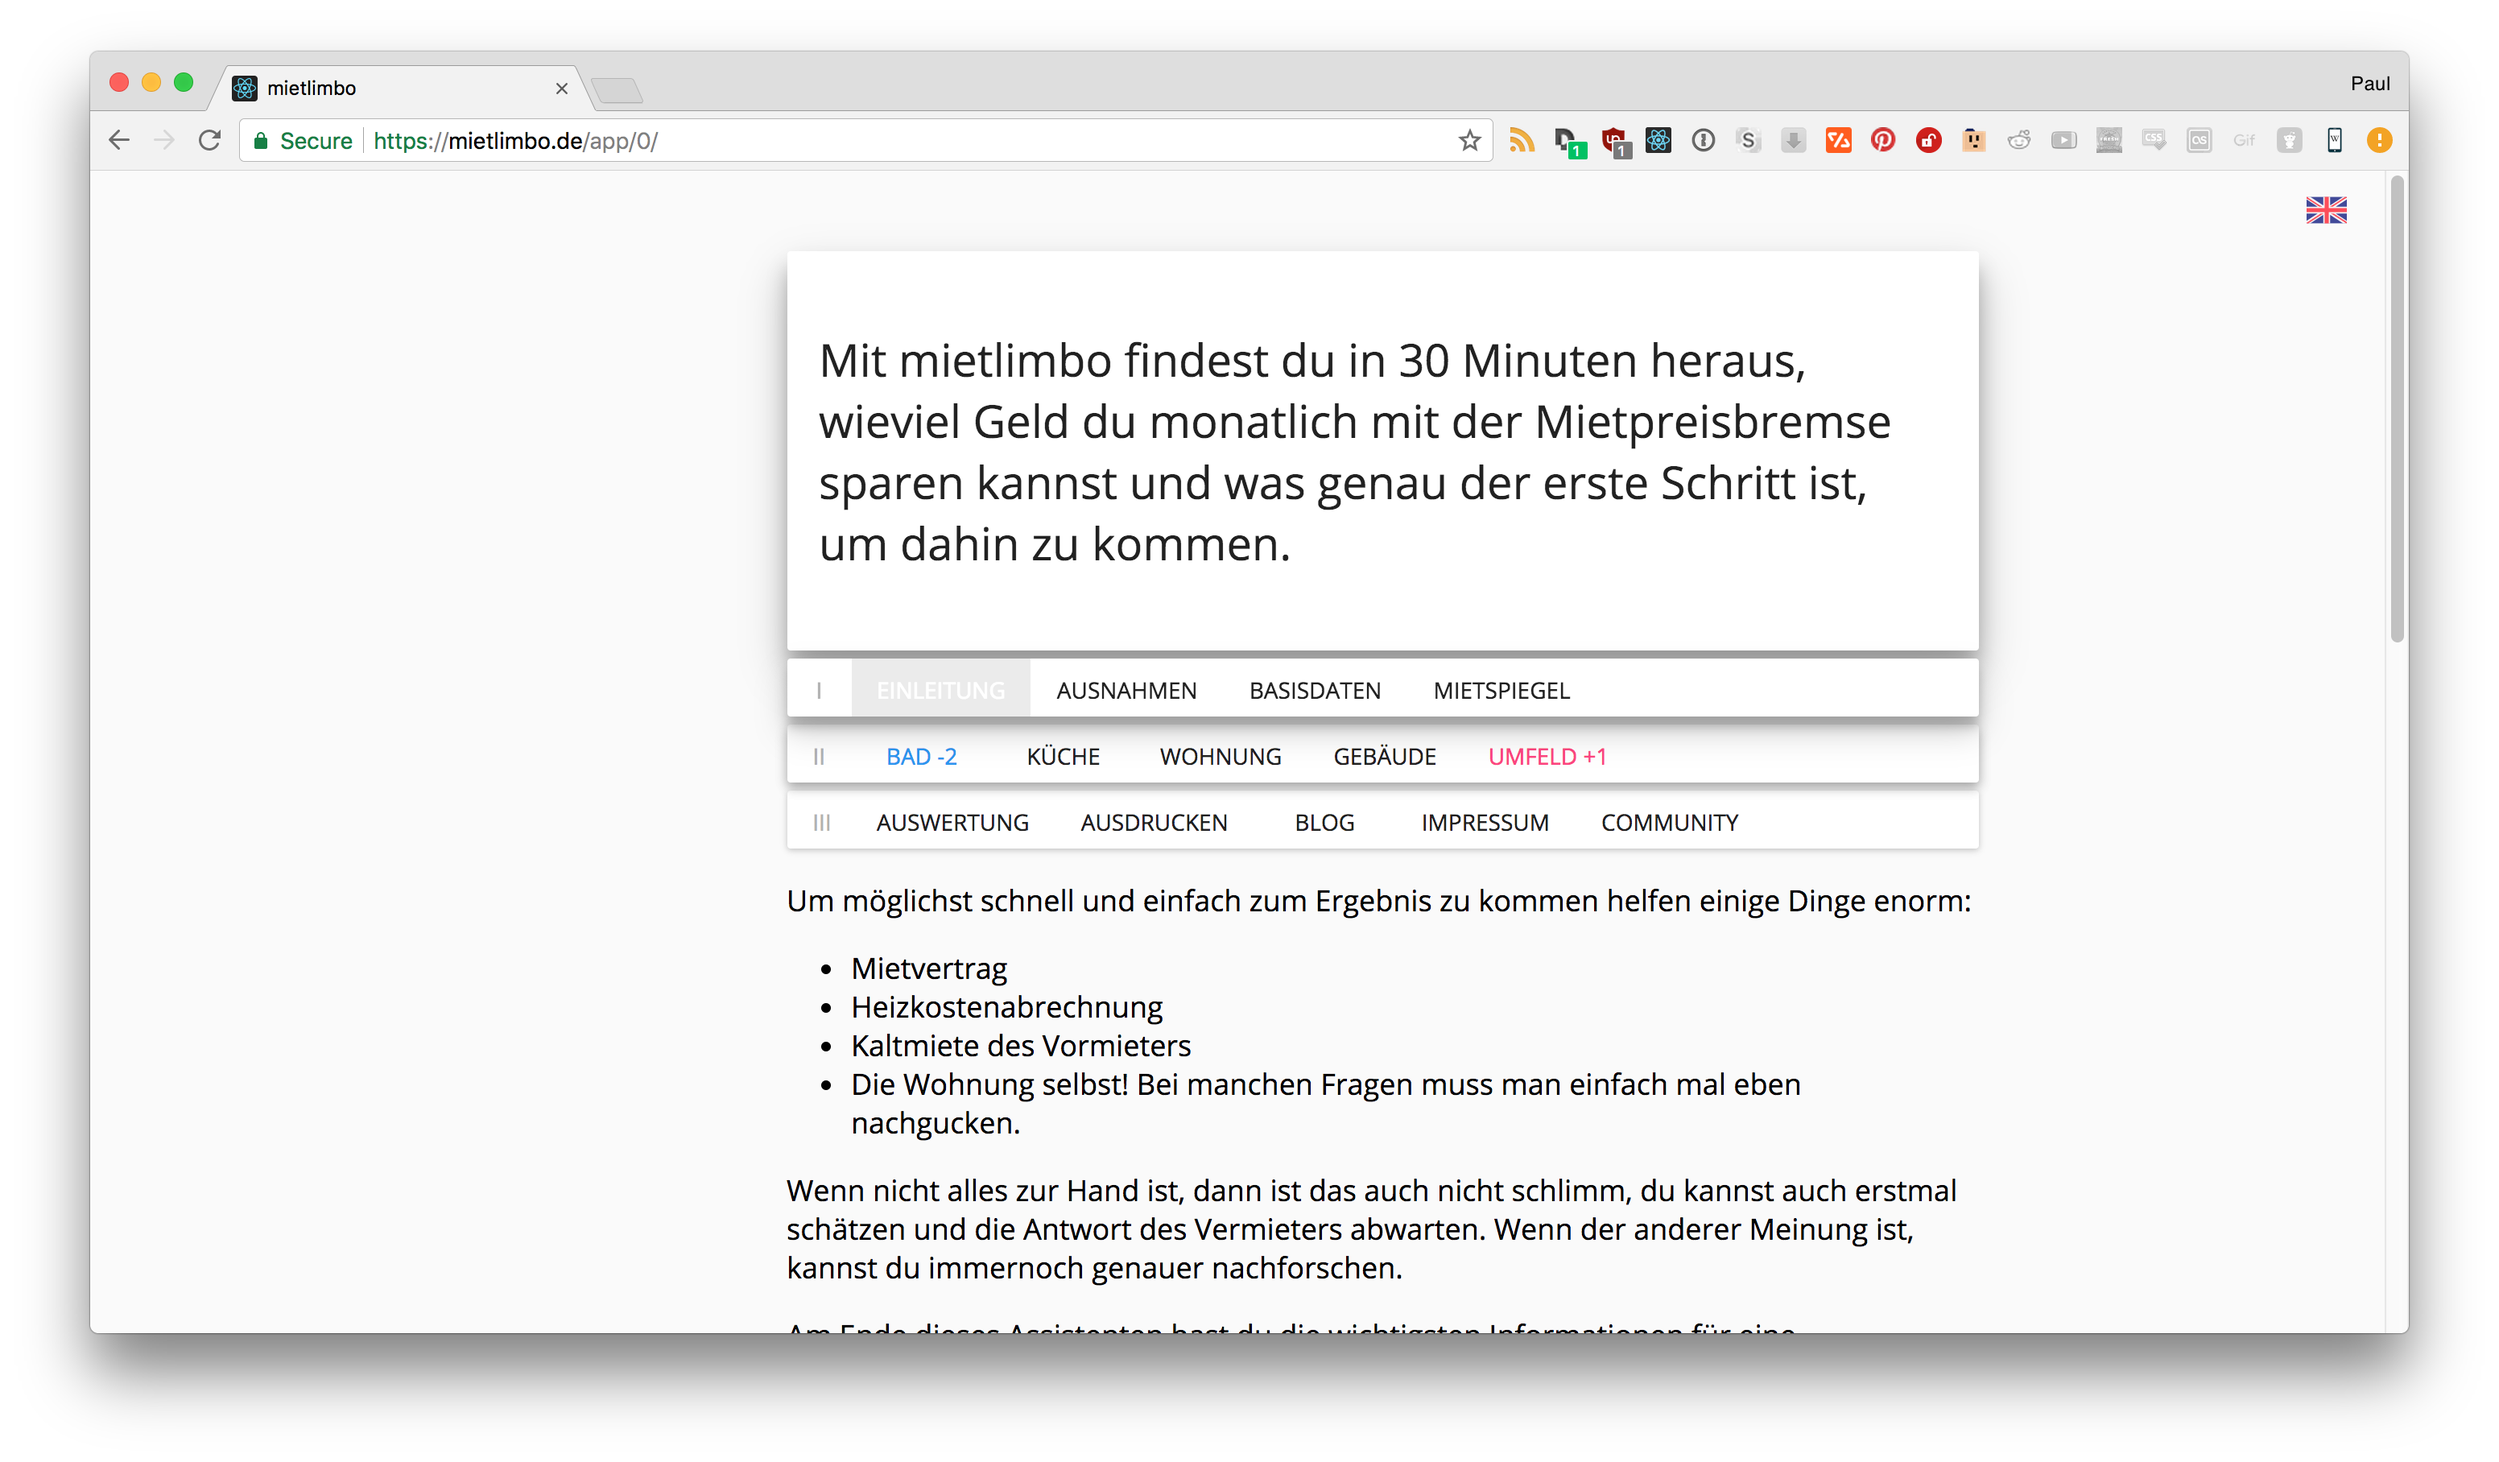
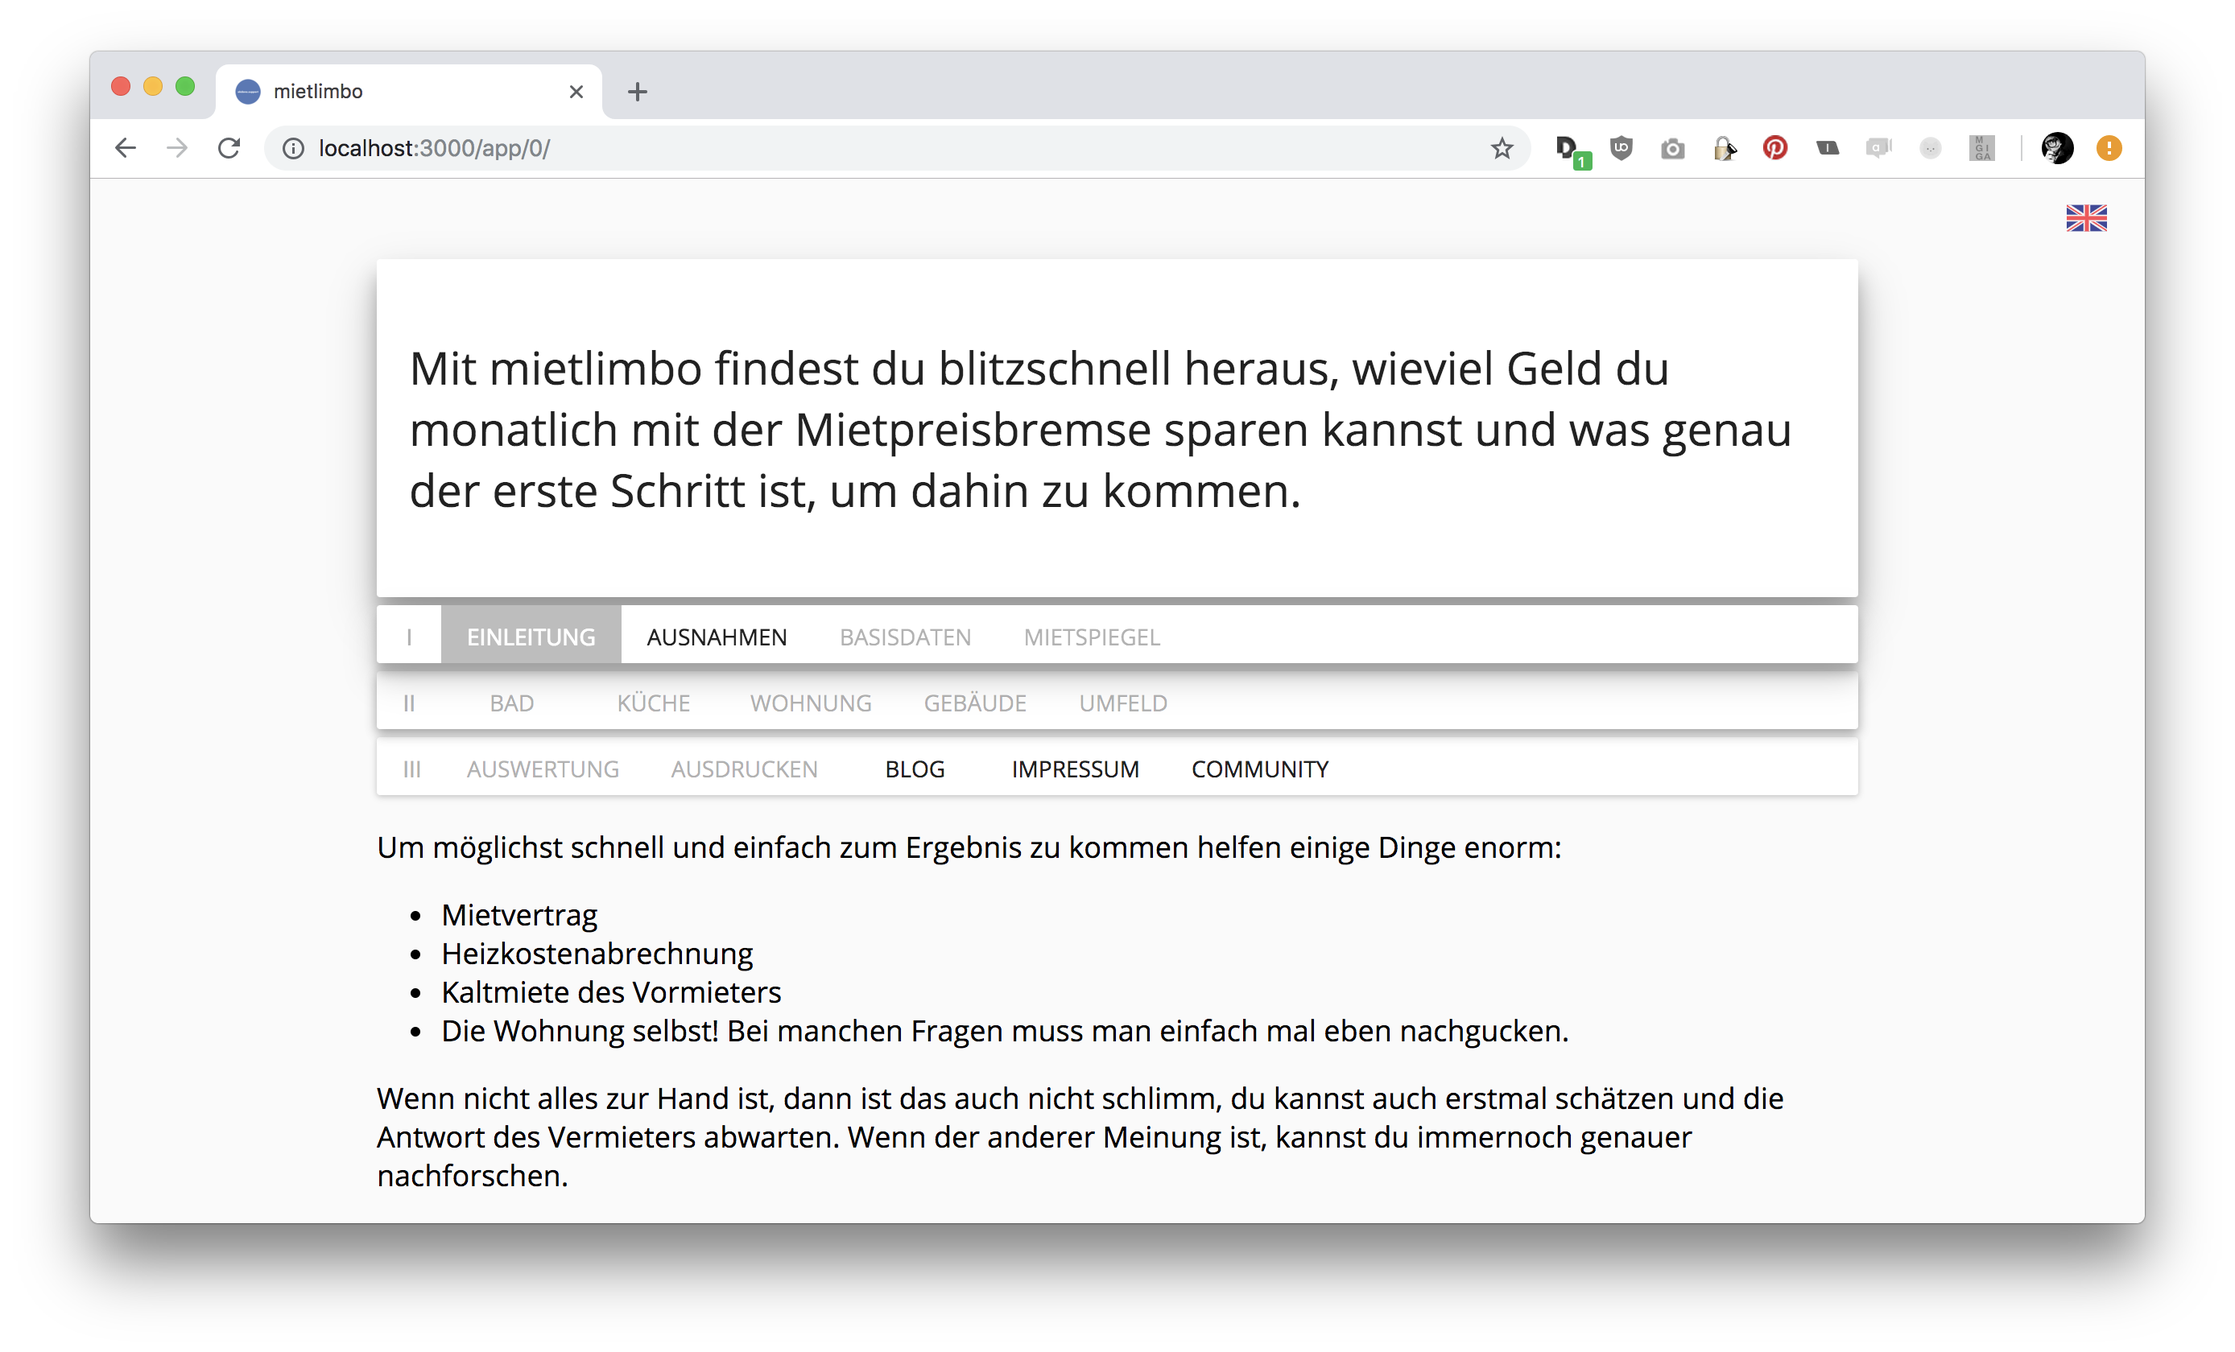
Update preview page

Changed region(s): [[0.1549, 0.1857, 0.8365, 0.7738], [0.031, 0.031, 0.9914, 0.9286], [0.9604, 0.4333, 0.9914, 0.8976]]

diff --git a/client/src/Pages/Preview.js b/client/src/Pages/Preview.js
@@ -45,8 +45,18 @@ const Preview = () => <div style={style.container}>
   bestimmte Wohnung den kritischen Wert <em>ortsübliche Vergleichsmiete + 10 Prozent</em> berechnet, 
   auf den die Miete gesenkt werden kann.</p>
 
-  <p>Obwohl die Software bereits fertig entwickelt ist, kann ich mietlimbo im Moment noch nicht veröffentlichen, da das Rechtsdienstleistungsgesetz
-  dies nur zulässt, wenn ich vorher alle Inhalte von einem Anwalt habe prüfen lassen. Daher suche
+  <p>Kommt es, wie so üblich, zu einer Verhandlung mit dem Vermieter über die 
+  Merkmale, welche auf die Wohnung zutreffen, so erlaubt mietlimbo das schnelle
+  durchprobieren verschiedener Konfigurationen. Dadurch kann geprüft werden,
+  ob es sich z.B. lohnt, darum zu kämpfen, dass das Parkett als hochwertig
+  klassifiziert wird - oder ob es letzendlich keinen Unterschied auf die Einordnung
+  der Wohnung im Mietspiegel hat.</p>
+
+  <p>Alle persönlichen Daten werden dabei lokal im Browser gespeichert und 
+  lassen sich einfach mit einem Klick auf der Startseite wieder löschen.</p>
+
+  <p><strong>Obwohl die Software bereits fertig entwickelt ist, kann ich mietlimbo im Moment noch nicht veröffentlichen</strong>, da das Rechtsdienstleistungsgesetz
+  dies nur zulässt, wenn ich vorher alle Inhalte mit einem Anwalt zusammen prüfe. Daher suche
   ich im Moment nach einem Kooperationspartner, der mir hiermit hilft. Hast du eine Idee, wer das sein könnte? 
   Dann schreibe mir gerne an <a href="mailto:hallo@mietlimbo.de" style={style.link}>hallo@mietlimbo.de</a> oder <a href="https://twitter.com/ciex" style={style.link}>@ciex</a></p>
 

diff --git a/client/src/Assistant/Introduction.js b/client/src/Assistant/Introduction.js
@@ -105,7 +105,7 @@ export const Introduction = (props) => {
 
 export const Title = () => <Paper zDepth={4} style={styles.titleWrapper}><p style={styles.bigtext}><FormattedMessage
   id="Introduction.overview"
-  defaultMessage={`Mit mietlimbo findest du in 30 Minuten heraus, 
+  defaultMessage={`Mit mietlimbo findest du blitzschnell heraus, 
     wieviel Geld du monatlich mit der Mietpreisbremse sparen kannst und was genau 
     der erste Schritt ist, um dahin zu kommen.`}
 /></p></Paper>;

diff --git a/client/src/Assistant/Assistant.js b/client/src/Assistant/Assistant.js
@@ -98,7 +98,6 @@ class Assistant extends React.Component {
 
   style = {
     container: {
-      paddingLeft: 180,
       marginBottom: 100
     }
   };
@@ -565,7 +564,7 @@ class AssistantWrapper extends React.Component {
   }
 
   checkPass(event) {
-    if (event.target.value === "berliner (ver)mieterverein") {
+    if (event.target.value === "salty-cookie-monster") {
       localStorage.setItem("mietlimboDemo", "approved");
       this.setState({login: true});
     }
